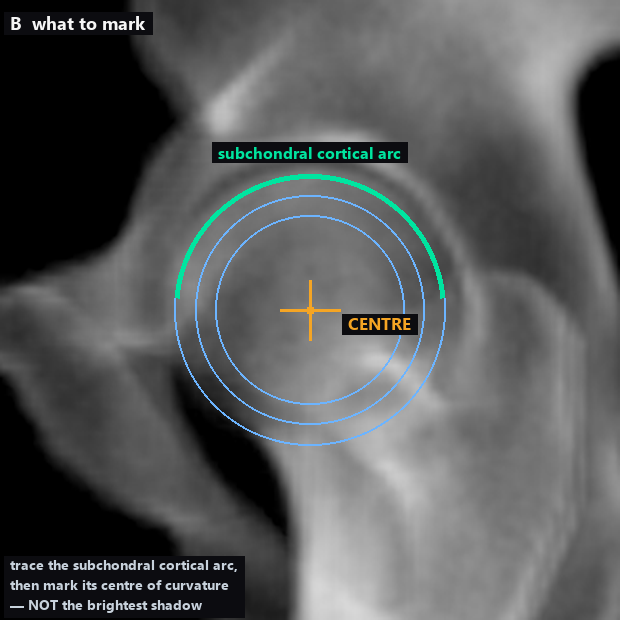
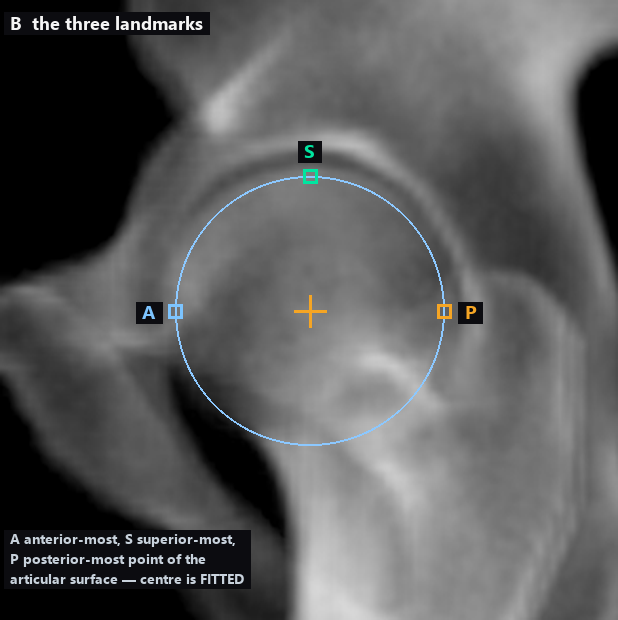
annot: the worked example now teaches the method the tool actually asks for
Panels B and C still showed the circle-sizing method, so a reader following A/S/P
instructions had a figure beside them demonstrating something else. Both are rebuilt from
the segmented CT, nothing drawn by hand.

PANEL B is the three landmarks. A, S and P come from the femoral head's fitted sphere --
seeded, as ostk does it, from the femur voxels in contact with the acetabulum -- projected
onto the DRR. The circle through them recovers the independently fitted 3-D sphere centre
to 0.00 px, and each landmark sits within 0.76 mm of a measured surface voxel.

Taking the single most EXTREME voxel of the surface cloud was tried first, on the reading
that this is what "the superior-most, anterior-most and posterior-most part" means. It is
not: the shell is selected with a +/-3.35 mm tolerance about the fitted radius, so its
outermost projected voxel sits 3.35/0.35 = 9.6 px past the true silhouette -- measured
overshoot 9.5 px. Three landmarks each biased outward by their own tolerance band put the
centre 1.8 mm (0.0069 of image width) off, ABOVE the agreement tolerance the figure exists
to teach. It was measuring the tolerance band, not the anatomy.

PANEL C is a real view at last. It used to draw a synthetic second head, because a DRR is
integrated along the true bicoxofemoral axis and the heads therefore superimpose exactly
-- Greg's objection was that the drawn separation corresponded to no rotation, and he was
[…]

diff --git a/annot/make_reference.py b/annot/make_reference.py
@@ -52,7 +52,14 @@ OUT = pathlib.Path(__file__).with_name("reference_femhead.png")
 GREEN, RED, AMBER, WHITE = (0, 229, 160), (255, 59, 48), (245, 165, 36), (245, 245, 245)
 LMCOL = {"A": (124, 196, 255), "S": (0, 229, 160), "P": (245, 165, 36)}
 PANEL_H = 620
-YAW_DEG = 8.0          # enough to separate the heads by about one head radius
+# 12 degrees, not 8. At 8 the circles overlapped through their centres and the two
+# inner landmarks collided with the midpoint marker -- a figure about telling two heads
+# apart should not itself be ambiguous. 186 mm of head separation x sin(12 deg) = 39 mm,
+# about 1.7 head radii, which is an ordinary amount of rotation on a real lateral.
+# 8 degrees. 186 mm of head separation x sin(8) = 26 mm, about 1.1 head radii, which is
+# an ordinary amount of rotation on a lateral and enough that the two heads are plainly
+# two. Rendering this volume takes minutes, so the result is cached beside this file.
+YAW_DEG = 8.0
 
 
 def font(sz):
@@ -183,6 +190,16 @@ def plan_for_saved(seg, affine, spacing):
         np.asarray(cranial, float)
 
 
+def _tone(arr):
+    """Percentile stretch, so a freshly rendered panel sits beside the site's exported
+    PNG without looking like a different modality. The export went through its own tone
+    curve; matching by eye across panels is what makes the figure read as one figure."""
+    a = np.asarray(arr, float)
+    lo, hi = np.percentile(a[a > 0], 1.0), np.percentile(a, 99.5)
+    a = np.clip((a - lo) / max(hi - lo, 1e-6), 0, 1)
+    return Image.fromarray((a * 255).astype(np.uint8)).convert("RGB")
+
+
 def render(seg, ct, affine, yaw_deg=0.0, spacing=0.35, cache=True):
     """A DRR along the bicoxofemoral axis, optionally yawed off it.
 
@@ -199,8 +216,7 @@ def render(seg, ct, affine, yaw_deg=0.0, spacing=0.35, cache=True):
         plan = json.loads(str(z["plan"]))
         plan["image"] = z["image"]
         print(f"  reused cached {yaw_deg:g}-degree render ({cf.name})")
-        return (plan, Image.fromarray((np.clip(plan["image"], 0, 1) * 255)
-                                      .astype(np.uint8)).convert("RGB"),
+        return (plan, _tone(plan["image"]),
                 np.asarray(plan["origin_world_mm"], float),
                 np.asarray(plan["axes"]["anterior"], float),
                 np.asarray(plan["axes"]["cranial"], float))
@@ -227,16 +243,22 @@ def render(seg, ct, affine, yaw_deg=0.0, spacing=0.35, cache=True):
     origin = np.asarray(plan["origin_world_mm"], float)
     ant = np.asarray(plan["axes"]["anterior"], float)
     cranial = np.asarray(plan["axes"]["cranial"], float)
-    img = (np.clip(plan["image"], 0, 1) * 255).astype(np.uint8)
-    return plan, Image.fromarray(img).convert("RGB"), origin, ant, cranial
+    return plan, _tone(plan["image"]), origin, ant, cranial
 
 
 # ── drawing ─────────────────────────────────────────────────────────────────────
-def draw_head(dr, lm, scale, off, col_centre=AMBER, tag=True, lw=3):
-    """The three landmarks, the circle through them, and the derived centre."""
+def draw_head(dr, lm, scale, off, col_centre=AMBER, tag=True, lw=3,
+              ring=(140, 200, 255), lift=False):
+    """The three landmarks, the circle through them, and the derived centre.
+
+    `lift` puts the A and P letters ABOVE their squares instead of straight out to the
+    side. With two heads side by side the side-placed letters run into each other and
+    into the midpoint marker, which is a poor look for the panel whose whole job is
+    telling two heads apart.
+    """
     P = {k: ((v[0] - off[0]) * scale, (v[1] - off[1]) * scale) for k, v in lm.items()}
     (cx, cy), R = circumcircle(P["A"], P["S"], P["P"])
-    dr.ellipse([cx - R, cy - R, cx + R, cy + R], outline=(140, 200, 255), width=2)
+    dr.ellipse([cx - R, cy - R, cx + R, cy + R], outline=ring, width=2)
     for k in ("A", "S", "P"):
         x, y = P[k]
         s = 7
@@ -244,7 +266,11 @@ def draw_head(dr, lm, scale, off, col_centre=AMBER, tag=True, lw=3):
         if tag:
             ox, oy = (x - cx), (y - cy)
             n = np.hypot(ox, oy) or 1
-            label(dr, (x + ox / n * 26, y + oy / n * 26), k, LMCOL[k], 19, "mm")
+            if lift and k != "S":
+                dx, dy = ox / n * 20, -26
+            else:
+                dx, dy = ox / n * 26, oy / n * 26
+            label(dr, (x + dx, y + dy), k, LMCOL[k], 19, "mm")
     t = 16
     dr.line([cx - t, cy, cx + t, cy], fill=col_centre, width=3)
     dr.line([cx, cy - t, cx, cy + t], fill=col_centre, width=3)
@@ -335,13 +361,13 @@ def main():
     ZC = PANEL_H / cropC.height
     Cp = cropC.resize((round(cropC.width * ZC), PANEL_H), Image.LANCZOS)
     dC = ImageDraw.Draw(Cp)
-    c1, _ = draw_head(dC, lmL, ZC, (boxC[0], boxC[1]), tag=True, lw=3)
-    c2, _ = draw_head(dC, lmR, ZC, (boxC[0], boxC[1]), tag=True, lw=3)
+    c1, R1 = draw_head(dC, lmL, ZC, (boxC[0], boxC[1]), lift=True, ring=(120, 235, 190))
+    c2, _ = draw_head(dC, lmR, ZC, (boxC[0], boxC[1]), lift=True, ring=(255, 150, 140))
     dC.line([c1[0], c1[1], c2[0], c2[1]], fill=GREEN, width=3)
     m = ((c1[0] + c2[0]) / 2, (c1[1] + c2[1]) / 2)
     dC.ellipse([m[0] - 7, m[1] - 7, m[0] + 7, m[1] + 7], fill=GREEN)
     label(dC, (10, 10), "C  two heads: mark BOTH", WHITE, 18)
-    label(dC, (m[0], m[1] + 46), "midpoint — derived for you", GREEN, 15, "ms")
+    label(dC, (m[0], m[1] + R1 + 34), "midpoint — derived for you", GREEN, 15, "ms")
     label(dC, (10, 528),
           f"the SAME scan, projected {YAW_DEG:.0f}° off the\n"
           "hip axis. real separation, not drawn in.\n"

diff --git a/annot/deploy.py b/annot/deploy.py
@@ -28,7 +28,13 @@ def main() -> int:
     # now needs PRO, so this default is not a preference, it is the one that exists. The
     # ledger and image DATASET repos below are separate and keep their own names.
     ap.add_argument("--space", default="gregoryschwingmdphd/spinesurg-ct-annotator")
-    ap.add_argument("--annot-repo", default="gregoryschwingmdphd/xrsp-femhead-annot")
+    # The LIVE ledger, and this default is load-bearing: deploy.py writes ANNOT_REPO on
+    # every run, so a stale default here silently points the Space back at whatever it
+    # used to read. That happened -- a routine redeploy reverted the Space to the finished
+    # circle-tool ledger and readers got "nothing left to annotate" again. Whenever the
+    # live ledger changes, change it HERE, not only in the Space settings.
+    ap.add_argument("--annot-repo",
+                    default="gregoryschwingmdphd/xrsp-femhead-asp-pilot")
     ap.add_argument("--image-repo", default="gregoryschwingmdphd/xrsp-femhead-images")
     ap.add_argument("--adjudicators", default="gregoryschwingmdphd")
     ap.add_argument("--private", action="store_true",
